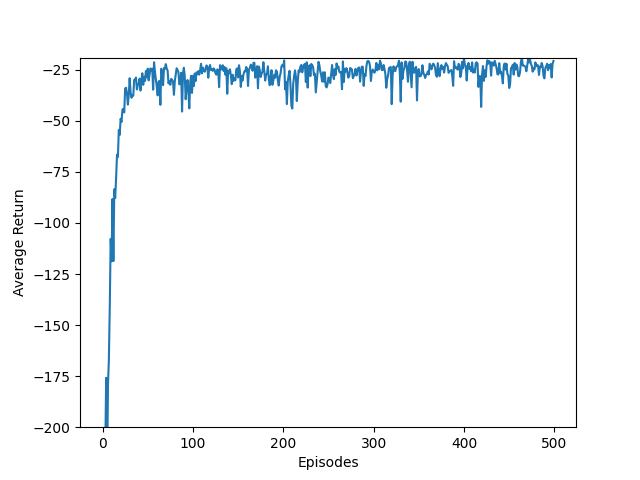
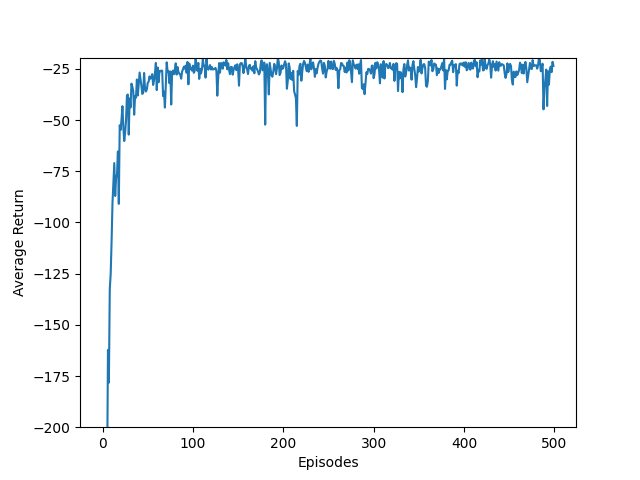
fix: Errors with new implementation of Q learning and Sarsa

diff --git a/MainSimpleEnvs.py b/MainSimpleEnvs.py
@@ -53,9 +53,9 @@ def run_q_learning(env, num_episodes):
         while not done:
             action = agent.sample_action(state)
             next_state, reward, done = env.step(action)
-            episode_return += reward
-            agent.learn(state, action, reward, next_state)
+            agent.learn(state, action, reward, next_state, done)
             state = next_state
+            episode_return += reward
         episode_returns[episode] = episode_return
     return episode_returns
 
@@ -70,14 +70,13 @@ def run_sarsa(env, num_episodes):
         while not done:
             next_state, reward, done = env.step(action)
             next_action = agent.sample_action(next_state)
-            episode_return += reward
-            agent.learn(state, action, reward, next_state, next_action)
+            agent.learn(state, action, reward, next_state, next_action, done)
             state = next_state
             action = next_action
+            episode_return += reward
         episode_returns[episode] = episode_return
     return episode_returns
 
-# TODO: Refactor del año
 def run_n_step(env, num_episodes):
     agent = NStep(env.action_space, 4)
     episode_returns = np.zeros(num_episodes)
@@ -116,7 +115,7 @@ if __name__ == "__main__":
     # env = EscapeRoomEnv()
     num_of_experiments = 100
     num_of_episodes = 500
-    function = run_n_step
+    function = run_sarsa
     average_returns = np.zeros(num_of_episodes)
     for i in range(num_of_experiments):
         returns = function(env, num_of_episodes)
